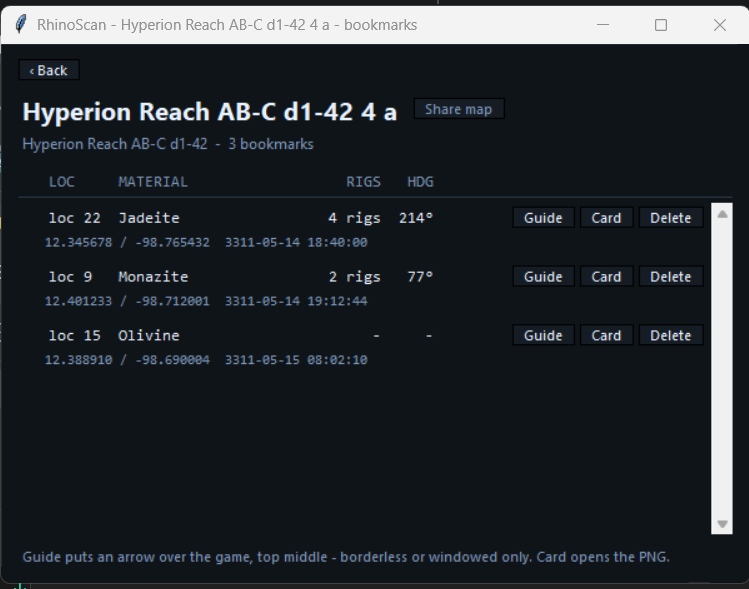
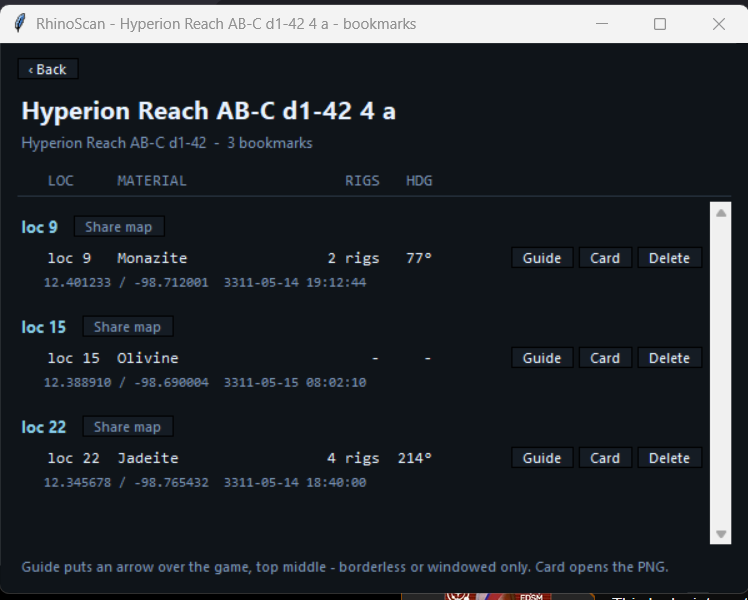
Group bookmarks by location, Share map beside each location
Beside the planet name it could only open one map for the whole body. Each
location now opens the map its bookmarks lie on, found from their coordinates.

Claude-Session: https://claude.ai/code/session_01M6boCJULrSyUu3acaq6ken

diff --git a/rs_ui/scan.py b/rs_ui/scan.py
@@ -15,7 +15,7 @@ import tkinter as tk
 import webbrowser
 from tkinter import font as tkfont, messagebox
 
-from rs_core import cards, coverstore, grounds, palette
+from rs_core import cards, coverage, coverstore, grounds, palette
 from rs_core.logging import logger
 from rs_ui import overlay
 
@@ -383,23 +383,19 @@ def _bookmarks_view(window, system, body, records):
     back.pack(fill="x", pady=(0, 6))
     _button(back, "‹ Back", lambda: _scan_view(window)).pack(side="left")
 
-    title = tk.Frame(outer, bg=BG)
-    title.pack(fill="x")
-    tk.Label(title, text=body, bg=BG, fg=FG, anchor="w",
-             font=("Segoe UI", 15, "bold")).pack(side="left")
-    # The last map saved on this body, opened like a card. Greyed when the
-    # body has never been driven.
-    picture = coverstore.latest_png(body)
-    _button(title, "Share map", (lambda: _open_card(picture)) if picture else None).pack(
-        side="left", padx=(10, 0))
+    tk.Label(outer, text=body, bg=BG, fg=FG, anchor="w",
+             font=("Segoe UI", 15, "bold")).pack(fill="x")
     count = len(records)
     tk.Label(outer, text=f"{system or ''}  -  {count} bookmark{'' if count == 1 else 's'}",
              bg=BG, fg=DIM, anchor="w", font=("Segoe UI", 9)).pack(fill="x", pady=(0, 10))
 
     _column_header(outer)
     listing, _ = _scrollable(outer)
-    for record in cards.ordered(records):
-        _bookmark_row(listing, record)
+    maps = coverstore.maps(body)
+    for index, group in _by_location(records):
+        _location_header(listing, body, index, group, maps)
+        for record in cards.ordered(group):
+            _bookmark_row(listing, record)
 
     note = tk.Label(outer, text="Guide puts an arrow over the game, top middle - "
                                 "borderless or windowed only. Card opens the PNG.",
@@ -408,6 +404,39 @@ def _bookmarks_view(window, system, body, records):
     note.pack(side="top", fill="x", pady=(8, 0))
     _Wrapper(window, margin=40)(note)
     _fit(window, listing, extra=BUTTONS)
+
+
+def _by_location(records):
+    """[(location, [bookmark, ...]), ...], by location, unnumbered last."""
+    groups = {}
+    for record in records:
+        groups.setdefault(record.get("location_index"), []).append(record)
+    return sorted(groups.items(), key=lambda item: (item[0] is None, item[0] or 0))
+
+
+def _location_header(parent, body, index, group, maps):
+    """'loc 2' over its bookmarks, and Share map for the map they were made on.
+
+    The map is found from the bookmarks' own coordinates - maps are kept by
+    where the SRV came down, not by location number. Greyed when none of them
+    lies on a saved map with a picture.
+    """
+    head = tk.Frame(parent, bg=BG)
+    head.pack(fill="x", pady=(8, 2))
+    tk.Label(head, text="loc " + (str(index) if index is not None else "-"), bg=BG, fg=ACCENT,
+             anchor="w", font=("Segoe UI", 10, "bold")).pack(side="left")
+    picture = None
+    for record in group:
+        lat, lon = record.get("latitude"), record.get("longitude")
+        if lat is None or lon is None:
+            continue
+        name = coverage.map_at(maps, body, float(lat), float(lon))
+        path = os.path.join(coverstore.folder(body), f"{name}.png") if name else None
+        if path and os.path.isfile(path):
+            picture = path
+            break
+    _button(head, "Share map", (lambda: _open_card(picture)) if picture else None).pack(
+        side="left", padx=(10, 0))
 
 
 def _column_header(parent):

diff --git a/rs_core/coverage.py b/rs_core/coverage.py
@@ -257,6 +257,24 @@ def _pick_saved(found, body, lat, lon, skip=None):
     return None
 
 
+def map_at(found, body, lat, lon):
+    """The name of the saved map a point belongs to, or None: of the maps that
+    reach it, the one whose first droppoint is nearest. No repaint - reach is
+    measured from each map's origin. `found` is coverstore.maps' list."""
+    best = None
+    for name, data in found:
+        try:
+            probe = Coverage(body, float(data["origin"][0]), float(data["origin"][1]),
+                             float(data["radius"]))
+        except (KeyError, IndexError, TypeError, ValueError):
+            continue
+        if probe.reaches(lat, lon):
+            distance = math.hypot(*probe.xy(lat, lon))
+            if best is None or distance < best[0]:
+                best = (distance, name)
+    return best[1] if best else None
+
+
 # The map side that makes the saved picture come out at the mask's own size:
 # the whole mask, 400 x 400 at 50 m a pixel.
 PICTURE_SIDE = int(round(MASK_PX * VIEW_M / REACH_M))

diff --git a/rs_tests/test_coverage.py b/rs_tests/test_coverage.py
@@ -249,6 +249,13 @@ class TestSaved:
         saved = lambda body: [("map 1", far), ("map 2", near)]
         assert coverage.follow(None, self.fix(), was_in_srv=False, saved=saved).name == "map 1"
 
+    def test_a_point_belongs_to_the_map_with_the_nearest_origin(self):
+        near = coverage.Coverage("A 2", *at(2000, 0), RADIUS).to_dict()
+        far = coverage.Coverage("A 2", *at(-8000, 0), RADIUS).to_dict()
+        found = [("map 1", far), ("map 2", near)]
+        assert coverage.map_at(found, "A 2", *at(0, 0)) == "map 2"
+        assert coverage.map_at(found, "A 2", *at(coverage.REACH_M + 5000, 0)) is None
+
     def test_another_bodys_map_of_the_same_name_is_not_skipped(self):
         # 'map 1' on A 3 and 'map 1' on A 2 are different files.
         other = coverage.follow(None, self.fix(body="A 3"), was_in_srv=False)

diff --git a/rs_core/update.py b/rs_core/update.py
@@ -23,7 +23,7 @@ import zipfile
 
 from rs_core.logging import logger
 
-VERSION = "3.5.1"
+VERSION = "3.5.2"
 
 # For testing the update path without publishing a throwaway release: set
 # RHINOSPOTTER_VERSION to something older and the running plugin will see the

diff --git a/CHANGELOG.md b/CHANGELOG.md
@@ -1,5 +1,14 @@
 # Changelog
 
+## 3.5.2
+
+**Changed**
+
+- A body's bookmarks are grouped by location, and **Share map** sits beside
+  each location rather than the planet name. It opens the map picture the
+  location's bookmarks lie on, found from their coordinates; greyed when none
+  of them lies on a saved map.
+
 ## 3.5.1
 
 **Changed**
